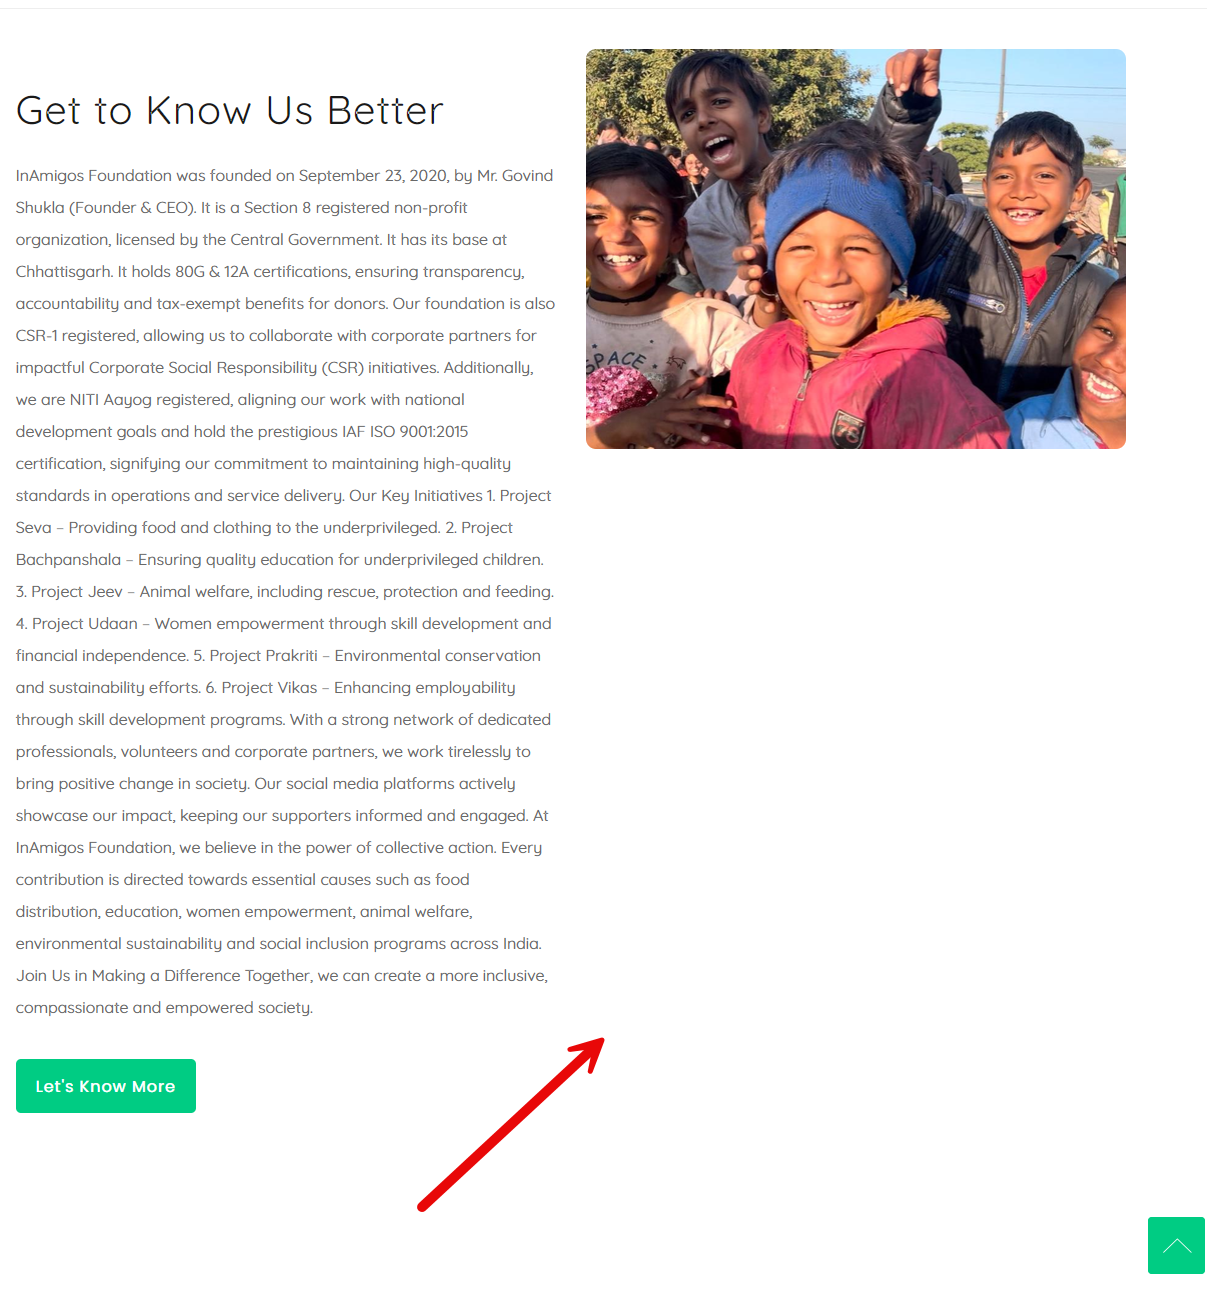
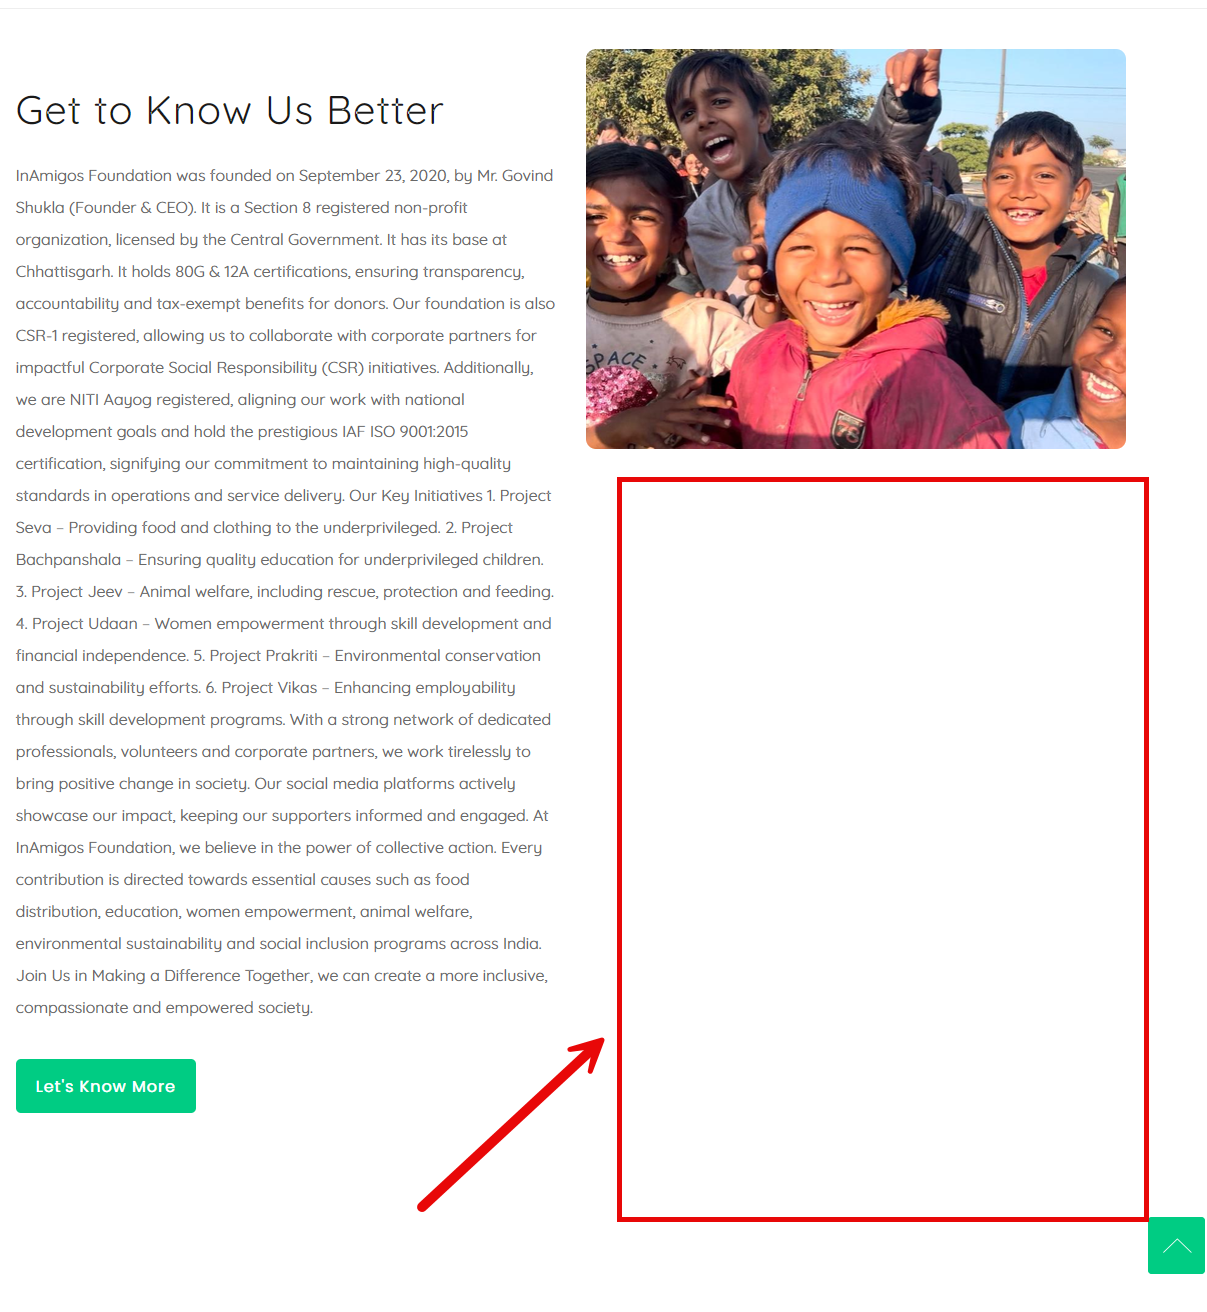
Add Evidence references to functional testing log

Changed region(s): [[0.4905, 0.375, 0.9503, 0.9375], [0.5211, 0.3438, 0.9503, 0.375]]

diff --git a/analysis/functionalTesting.md b/analysis/functionalTesting.md
@@ -1,0 +1,183 @@
+# Functional Testing Log
+
+**Project:** InAmigos Foundation Website Audit  
+**Website:** https://inamigosfoundation.org.in/  
+**Test Date:** 6 November 2026
+
+## Newsletter Subscription
+
+### TEST-NEWS-001 — Invalid Email Format
+
+- **Page:** Homepage (Footer)
+- **Input:** `notanemail`
+- **Expected Result:** Website should reject invalid email addresses.
+- **Actual Result:** Browser displays an email validation message: "Enter valid email".
+- **Status:** PASS
+- **Observation:** Client-side email format validation is functioning.
+
+### TEST-NEWS-002 — Valid-format Email Submission
+
+- **Page:** Homepage (Footer)
+- **Input:** `notanemail@temp.com`
+- **Expected Result:** Newsletter subscription should be processed and an appropriate confirmation displayed.
+- **Actual Result:** Website displays a Swift_TransportException with HTTP 503. The error states that local sendmail is disabled.
+- **Status:** FAIL
+- **Observation:** The backend email delivery process encounters a server-side configuration error.
+- **Evidence:** `../screenshot/original/footer-contactUs-textbox-error.png`
+
+### TEST-NEWS-003 — Duplicate Subscription Feedback
+
+- **Page:** Homepage (Footer)
+- **Input:** Previously submitted email address.
+- **Expected Result:** Website should display a clear duplicate-subscription message near the newsletter form.
+- **Actual Result:** After reloading, the message "This email address already subscribed." appears.
+- **Status:** PARTIAL
+- **Observation:** The duplicate-subscription message is displayed, but the initial submission error creates uncertainty about whether the subscription was successfully processed. The message also requires manual scrolling to locate.
+- **Evidence:** `../screenshot/original/footer-contactUs-textbox-already-subscribed-message.png`
+- **Annotated Evidence:** `../screenshot/annotated/footer-contactUs-textbox-annotated.png`
+
+---
+
+## Website-Wide Functional and UX Observations
+
+The following observations were recorded during manual desktop inspection and interaction testing. They include both functional issues and user experience improvement opportunities.
+
+### TEST-001 — Outdated Twitter Branding
+
+- **Page:** Homepage
+- **Category:** Visual Design
+- **Expected:** Social media icons should reflect current platform branding.
+- **Actual:** The website displays the outdated Twitter bird icon.
+- **Status:** Improvement Required
+- **Evidence:** `../screenshot/original/homepage-footer.png`
+- **Annotated Evidence:** `../screenshot/annotated/twitter-outdated-logo-annotated.png`
+
+### TEST-002 — Facebook Link Failure
+
+- **Page:** Homepage / Footer
+- **Category:** Navigation
+- **Expected:** Facebook icon should open the foundation's official Facebook profile.
+- **Actual:** The Facebook link opens a Facebook page that reports the content is unavailable.
+- **Status:** FAIL
+- **Evidence:** `../screenshot/original/facebook-link.png`
+
+### TEST-003 — Incorrect Twitter Destination
+
+- **Page:** Homepage / Footer
+- **Category:** Navigation
+- **Expected:** Twitter/X icon should open the foundation's official profile.
+- **Actual:** Opens `https://twitter.com/` instead.
+- **Status:** FAIL
+- **Evidence:** `../screenshot/original/homepage-footer.png`
+- **Annotated Evidence:** `../screenshot/annotated/homepage-footer-outdated-wrongLinks-same-problem-as-header.png`
+
+### TEST-004 — Unnecessary Google+ Icon
+
+- **Page:** Homepage / Footer
+- **Category:** Visual Design / Navigation
+- **Expected:** Social media section should contain relevant, active platform links.
+- **Actual:** Google+ icon is displayed and redirects to google.com.
+- **Status:** Improvement Required
+- **Evidence:** `../screenshot/original/homepage-footer.png`
+- **Annotated Evidence:** `../screenshot/annotated/unnecessary-google-logo-annotated.png`
+
+### TEST-005 — Incorrect Pinterest Destination
+
+- **Page:** Homepage / Footer
+- **Category:** Navigation
+- **Expected:** Pinterest icon should open the foundation's official profile.
+- **Actual:** Opens `https://pinterest.com/` instead.
+- **Status:** FAIL
+- **Evidence:** `../screenshot/original/homepage-footer.png`
+- **Annotated Evidence:** `../screenshot/annotated/homepage-footer-outdated-wrongLinks-same-problem-as-header.png`
+
+### TEST-006 — Incorrect Instagram Destination
+
+- **Page:** Homepage / Footer
+- **Category:** Navigation
+- **Expected:** Instagram icon should open the foundation's official Instagram profile.
+- **Actual:** Link points to an incorrect destination.
+- **Status:** FAIL
+- **Evidence:** `../screenshot/original/wrong-instagram.png`
+
+### TEST-007 — Poor Visual Affordance of Homepage Action Cards
+
+- **Page:** Homepage
+- **Category:** User Experience / Visual Design
+- **Expected:** Interactive elements should be visually recognizable as clickable.
+- **Actual:** The Donate Us, Become A Volunteer and Join Us cards do not clearly communicate that they are clickable.
+- **Status:** Improvement Required
+- **Evidence:** `../screenshot/original/button-not-recognisible.png`
+
+### TEST-008 — Empty Causes Page
+
+- **Page:** Causes
+- **Category:** Content / User Experience
+- **Expected:** Visitors should see available causes or a meaningful empty-state message.
+- **Actual:** Page displays "NO RESULTS" with substantial unused space.
+- **Status:** Improvement Required
+- **Evidence:** `../screenshot/original/causes-fullpage-overview.png`
+
+### TEST-009 — Event Links Open in Current Tab
+
+- **Page:** Homepage / Events
+- **Category:** Navigation
+- **Expected:** Review whether opening event details in a new tab would improve browsing continuity.
+- **Actual:** Read More links open in the current tab.
+- **Status:** Improvement Required
+- **Evidence:** `../screenshot/original/homepage-events-section.png`
+
+### TEST-010 — Gallery Lightbox Failure
+
+- **Page:** Gallery
+- **Category:** Functionality
+- **Expected:** Clicking an image should display the selected image correctly.
+- **Actual:** Background becomes blurred, but the image does not load and the interface appears to remain loading.
+- **Status:** FAIL
+- **Evidence:** `../screenshot/original/gallery-blur-when-open-image.png`
+
+### TEST-011 — Volunteers Pagination Layout
+
+- **Page:** Volunteers
+- **Category:** Layout / Pagination
+- **Expected:** Pagination should maintain a consistent layout across pages.
+- **Actual:** The bottom row displays only one volunteer profile despite additional profiles appearing on the following page.
+- **Status:** Improvement Required
+- **Evidence:** `../screenshot/original/volunteers-fullpage-overview.png`
+
+### TEST-012 — Gallery Pagination Inconsistency
+
+- **Page:** Gallery
+- **Category:** Functionality / Pagination
+- **Expected:** Selecting a pagination number should display the corresponding set of images.
+- **Actual:** Page indicates 10 entries per page but displays all images. Pagination controls do not behave as expected.
+- **Status:** FAIL
+- **Evidence:** `../screenshot/original/gallery-fullpage-overview.png`
+
+### TEST-013 — Footer Links Open in Current Tab
+
+- **Page:** Homepage / Footer
+- **Category:** Navigation
+- **Expected:** Review whether opening selected footer links in new tabs would improve browsing continuity.
+- **Actual:** Useful Links open in the current tab.
+- **Status:** Improvement Required
+- **Evidence:** `../screenshot/original/homepage-footer.png`
+
+### TEST-014 — Blog Links Open in Current Tab
+
+- **Page:** Blog
+- **Category:** Navigation
+- **Expected:** Review whether opening article details in new tabs would improve browsing continuity.
+- **Actual:** Read More links open in the current tab.
+- **Status:** Improvement Required
+- **Evidence:** No dedicated blog screenshot captured.
+
+### TEST-015 — Contact Form Submission Failure
+
+- **Page:** Contact
+- **Category:** Functionality / Backend
+- **Expected:** Valid contact submissions should be processed and confirmation displayed.
+- **Actual:** Submission produces a Swift_TransportException with HTTP 503. Server reports that local sendmail is disabled.
+- **Status:** FAIL
+- **Evidence:** `../screenshot/original/contact-submitButton-error.png`
+- **Supporting Page Evidence:** `../screenshot/original/contact-fullpage-overview.png`

diff --git a/analysis/testCases.md b/analysis/testCases.md
@@ -1,0 +1,14 @@
+# Website Functional Test Cases
+
+| Test ID | Feature | Test Scenario | Expected Result | Actual Result | Status |
+|---|---|---|---|---|---|
+| TC-NEWS-001 | Newsletter | Submit invalid email format | Reject invalid email | Browser validation works | PASS |
+| TC-NEWS-002 | Newsletter | Submit valid-format email | Process subscription successfully | HTTP 503 SMTP error | FAIL |
+| TC-NEWS-003 | Newsletter | Submit previously registered email | Display duplicate-subscription feedback | Duplicate message appears after reload | PARTIAL |
+| TC-CON-001 | Contact | Submit contact form | Display successful submission confirmation | HTTP 503 SMTP error | FAIL |
+
+**Status Definitions**
+- PASS: Expected behaviour observed.
+- FAIL: Expected behaviour not observed.
+- PARTIAL: Some expected behaviour works, but usability or functionality remains incomplete.
+- NOT TESTED: Test has not yet been performed.
